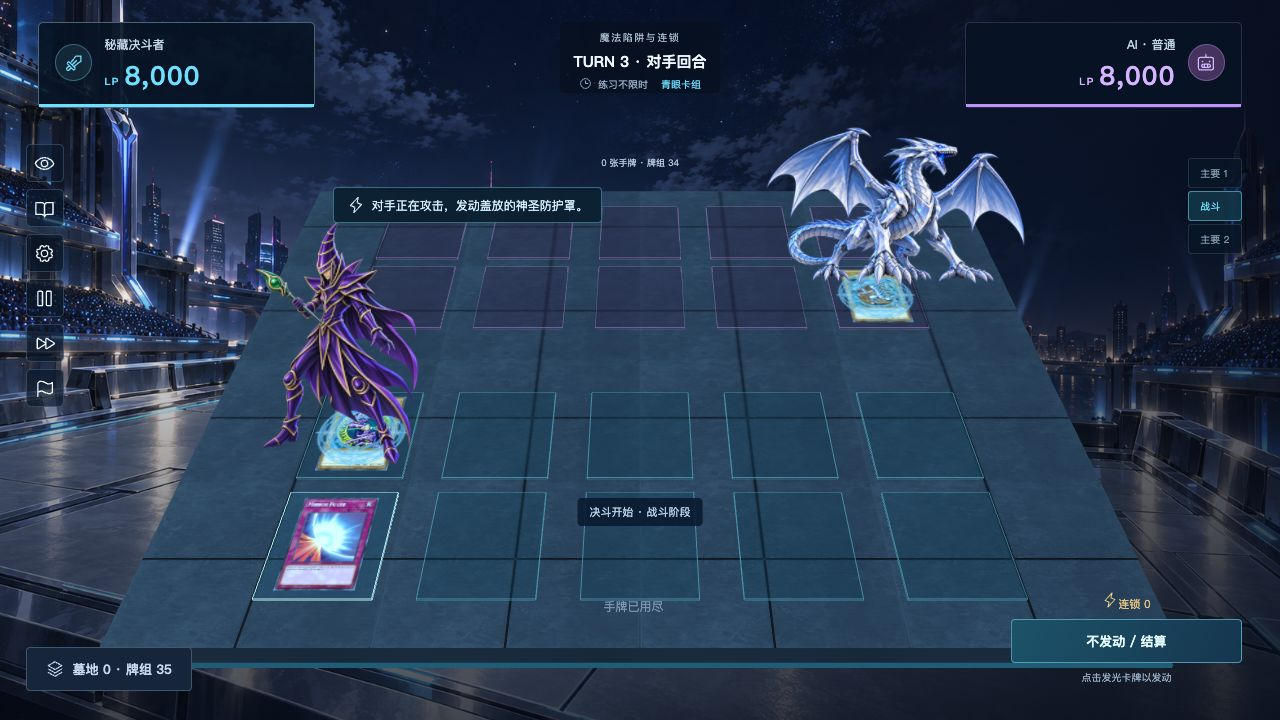
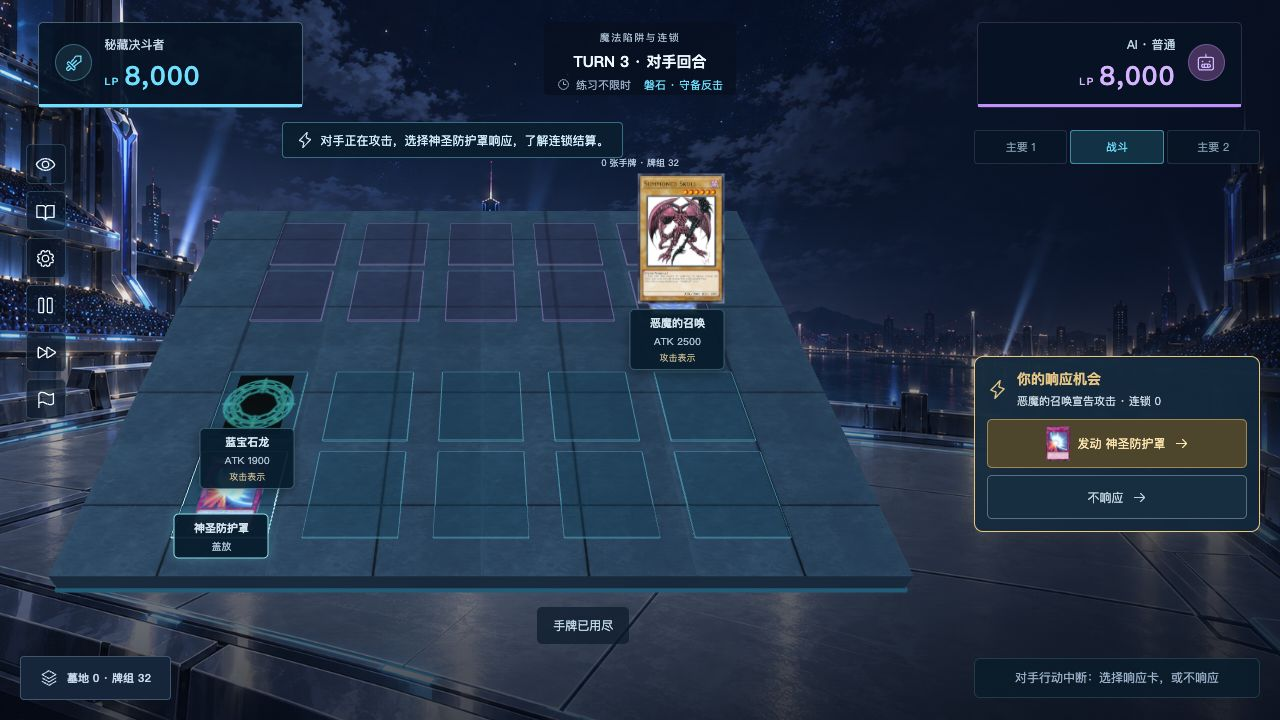
Refresh Astral Duel strategy descriptions and gameplay evidence

diff --git a/assets/screenshots/astral-duel/SOURCE.md b/assets/screenshots/astral-duel/SOURCE.md
@@ -3,10 +3,21 @@
 - Creator: Ryan-fm (https://github.com/Ryan-fm), submitted by the creator's authenticated account.
 - Development: iterative Codex collaboration on the game design, React/TypeScript UI, Three.js arena and summon ritual, Node/Socket.IO rules server, collection/deck features and tests.
 - Exact GPT-6 Astra attribution has not yet been confirmed by the creator. This draft does not assert that all work or art was made by GPT-6 Astra.
-- Checked on 2026-10-09 in Chrome: the Toy preview loads directly without game login or installation, and opens the summoning screen. Local equivalent static build was played through the trap-chain tutorial and win screen. Ten-pull results, collection and owned-card deck validation were checked; 34 engine/network/collection/static-adapter tests pass.
+- Checked on 2026-10-09 in Chrome: the Toy preview loads directly without game login or installation, and opens the summoning screen. Local equivalent static build was played through the trap-chain tutorial and win screen. Ten-pull results, collection and owned-card deck validation were checked; 49 engine/network/collection/static-adapter tests pass.
 - Screenshot: actual 1280×720 gameplay from the same Toy static build, captured 2026-10-09. It is not a rendered mockup or AI-generated UI.
 - Toy release: https://www.bilibili.com/toy/astral-duel-game/index.html
 - Publication: Toy CLI reports published on 2026-10-09, id 42086522945536, visibility PUBLIC. Exact Astra attribution remains unconfirmed.
 - Browser build: free Chinese-interface human-vs-AI practice, guided challenges, card collection, summoning and deck editing. Progress stays in this browser. Real online PK and friend rooms require deploying the separate server from the full source version; the static Toy build does not simulate online players.
 - Assets: unofficial Yu-Gi-Oh fan prototype; Yu-Gi-Oh card names and card fronts are third-party assets. Generated arena/monster/ritual artwork and code are separate. This catalog contribution does not relicense third-party game artwork or claim official affiliation.
 - Source repository is private: https://github.com/Ryan-fm/astral-duel-game. It is not presented as a public source download.
+
+## Strategy and interaction update — 2026-10-09
+
+- Four different free 40-card presets: tempo, spell control, defense/counterplay, and tribute pressure. Only the tribute/dragon preset includes Blue-Eyes; the other three have no Blue-Eyes copies. These are classic small-pool strategy templates, not full modern archetypes or win-rate-calibrated competitive decks.
+- Neutral tutorials use low-level monsters; four challenges cover tribute summoning, quick-spell breakthrough, trap reversal and graveyard revival. The tribute goal adapts to the selected preset.
+- Card actions use a non-blocking side inspector, direct board target and placement selection, public-stat damage preview, and a prominent response tray. Phone controls were measured at 844×390; key buttons are at least 44 CSS pixels high.
+- Featured summon effects depend on monster level and attribute, including acquired cards; the purple Summoned Skull revival was exercised on the local server. Monsters remain 2.5D sprites/card projections, while the arena, cards and effects use Three.js.
+- Additional screenshots: `revival-mobile.png`, `summon-mobile.png`, and `strategies-mobile.png` are real 844×390 Chrome local-server captures dated 2026-10-09; they are not concept renders. The local game and Toy edition share the UI, with different connection adapters.
+- Both full-server and Toy production builds pass, with the original 28 protected runtime files intact. Toy content preflight reports no ERROR/WARN. The browser-bundle guard rejects unresolved server filesystem calls.
+
+- Latest platform preview checked: https://www.bilibili.com/toy/preview/preview_bFdwHmWd/index.html . Initialization, four-preset selection and the trap-response tutorial completed successfully in Chrome. `gameplay.png` is a real 1280×720 capture from this preview; `strategies.png` shows its four-preset lobby. The old browser save was retained across the build update.

diff --git a/README.md b/README.md
@@ -503,7 +503,7 @@ Logic puzzles, physics challenges, word games, and clever little mechanisms.
 
 Tower defense, strategic card games, management games, building, and simulation sandboxes.
 
-- **[Astral Duel / 星域决斗](https://www.bilibili.com/toy/astral-duel-game/index.html)** — Build a 40-card deck, discover cards through a 3D summoning ritual, and learn attacks and trap chains in guided Yu-Gi-Oh-inspired duels against AI.
+- **[Astral Duel / 星域决斗](https://www.bilibili.com/toy/astral-duel-game/index.html)** — Choose tempo, spell control, defense/counterplay or tribute pressure; build a 40-card deck, discover cards through a 3D summoning ritual, and play guided Yu-Gi-Oh-inspired duels against AI.
   - Creator: [Ryan-fm](https://github.com/Ryan-fm).
   - Platform: WebGL browser; Chinese interface, mouse or touch. Free, no game login. Toy release supports AI duels, summoning and deck editing with local browser saves; online PK requires the separate full-version server.
   - Model participation: [Development and verification notes](assets/screenshots/astral-duel/SOURCE.md) — Iterative Codex collaboration; exact GPT-6 Astra attribution awaits creator confirmation. Unofficial fan prototype using third-party card artwork.

diff --git a/README.zh-CN.md b/README.zh-CN.md
@@ -503,7 +503,7 @@
 
 塔防、卡牌策略、经营建造与模拟沙盒。
 
-- **[星域决斗 / Astral Duel](https://www.bilibili.com/toy/astral-duel-game/index.html)** — 通过 3D 召唤仪式发现新卡，编成 40 张卡组，在游戏王基础规则的人机决斗中练习攻击、魔法陷阱与连锁。
+- **[星域决斗 / Astral Duel](https://www.bilibili.com/toy/astral-duel-game/index.html)** — 选择节奏突击、魔法控场、守备反击或上级压制四种路线，编成 40 张卡组；通过 3D 召唤发现新卡，在人机决斗中练习攻击、连锁与墓地复活。
   - 作者：[Ryan-fm](https://github.com/Ryan-fm)。
   - 平台：支持 WebGL 的浏览器，中文界面，鼠标或触控；免费，无需游戏账号。Toy 发布版支持人机、召唤和组卡，进度保存在当前浏览器；在线 PK 需要单独部署完整版服务器。
   - 模型参与：[开发与核验记录](assets/screenshots/astral-duel/SOURCE.md) — 通过多轮 Codex 协作开发；具体 GPT-6 Astra 归因等待创作者确认。非官方同人原型，包含第三方卡牌美术。
